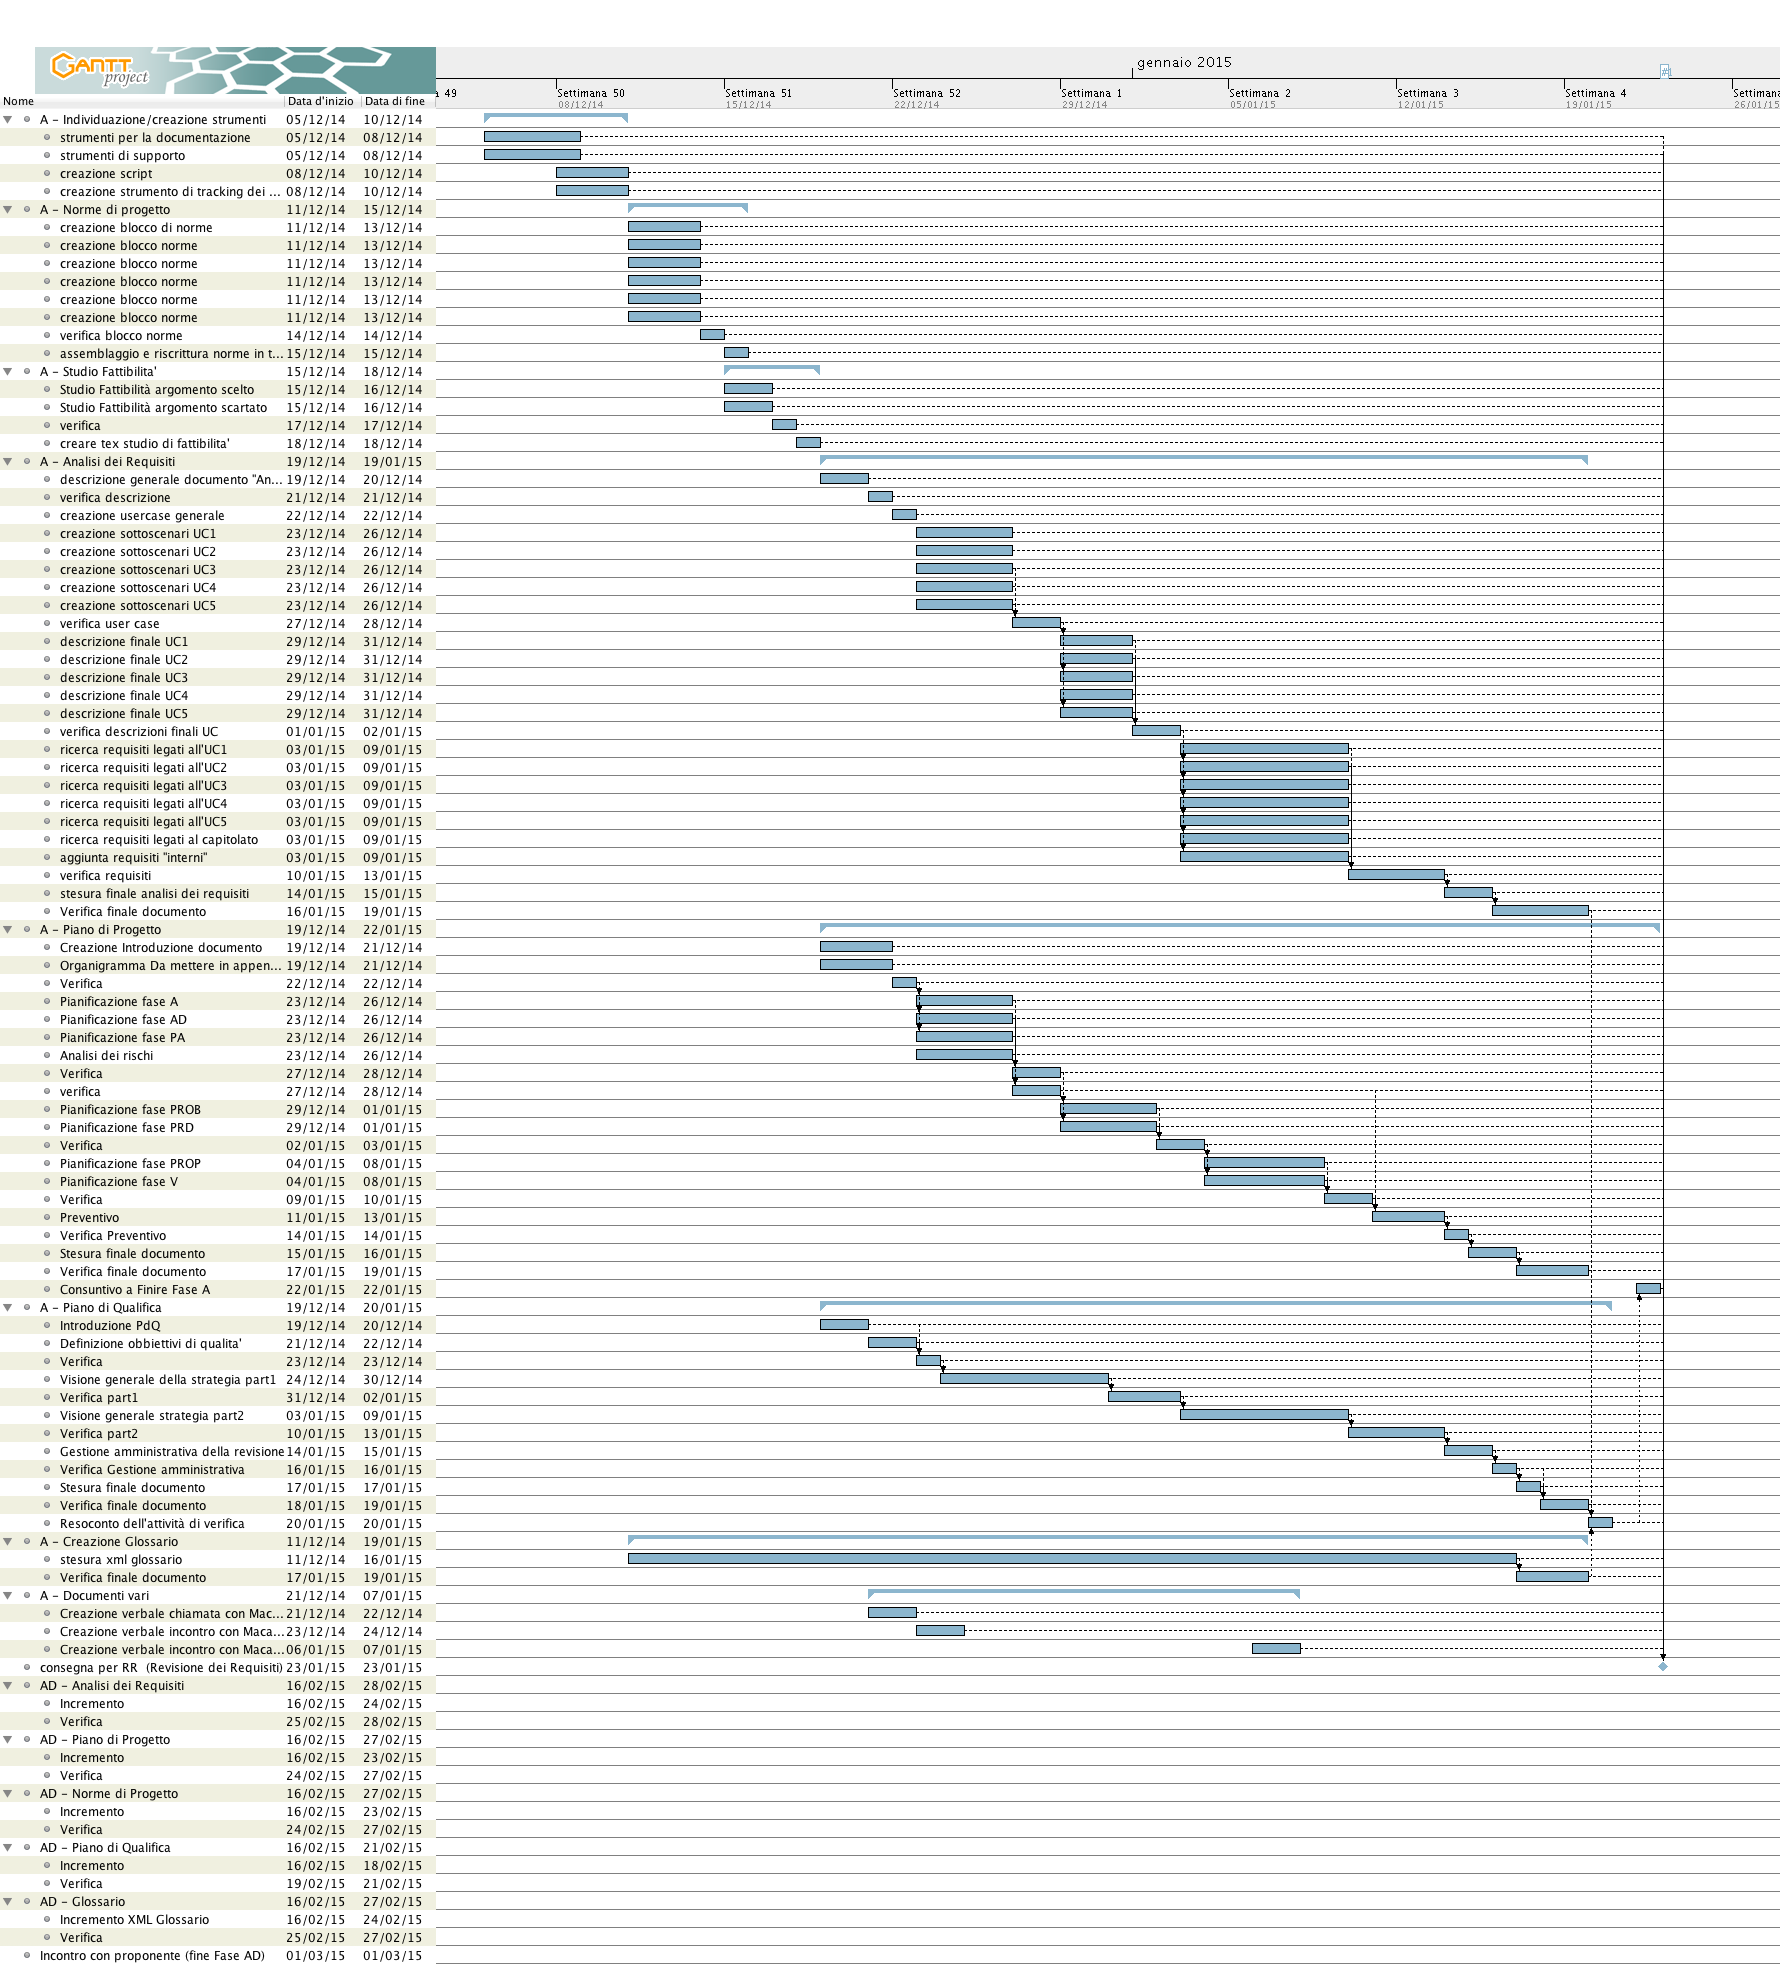
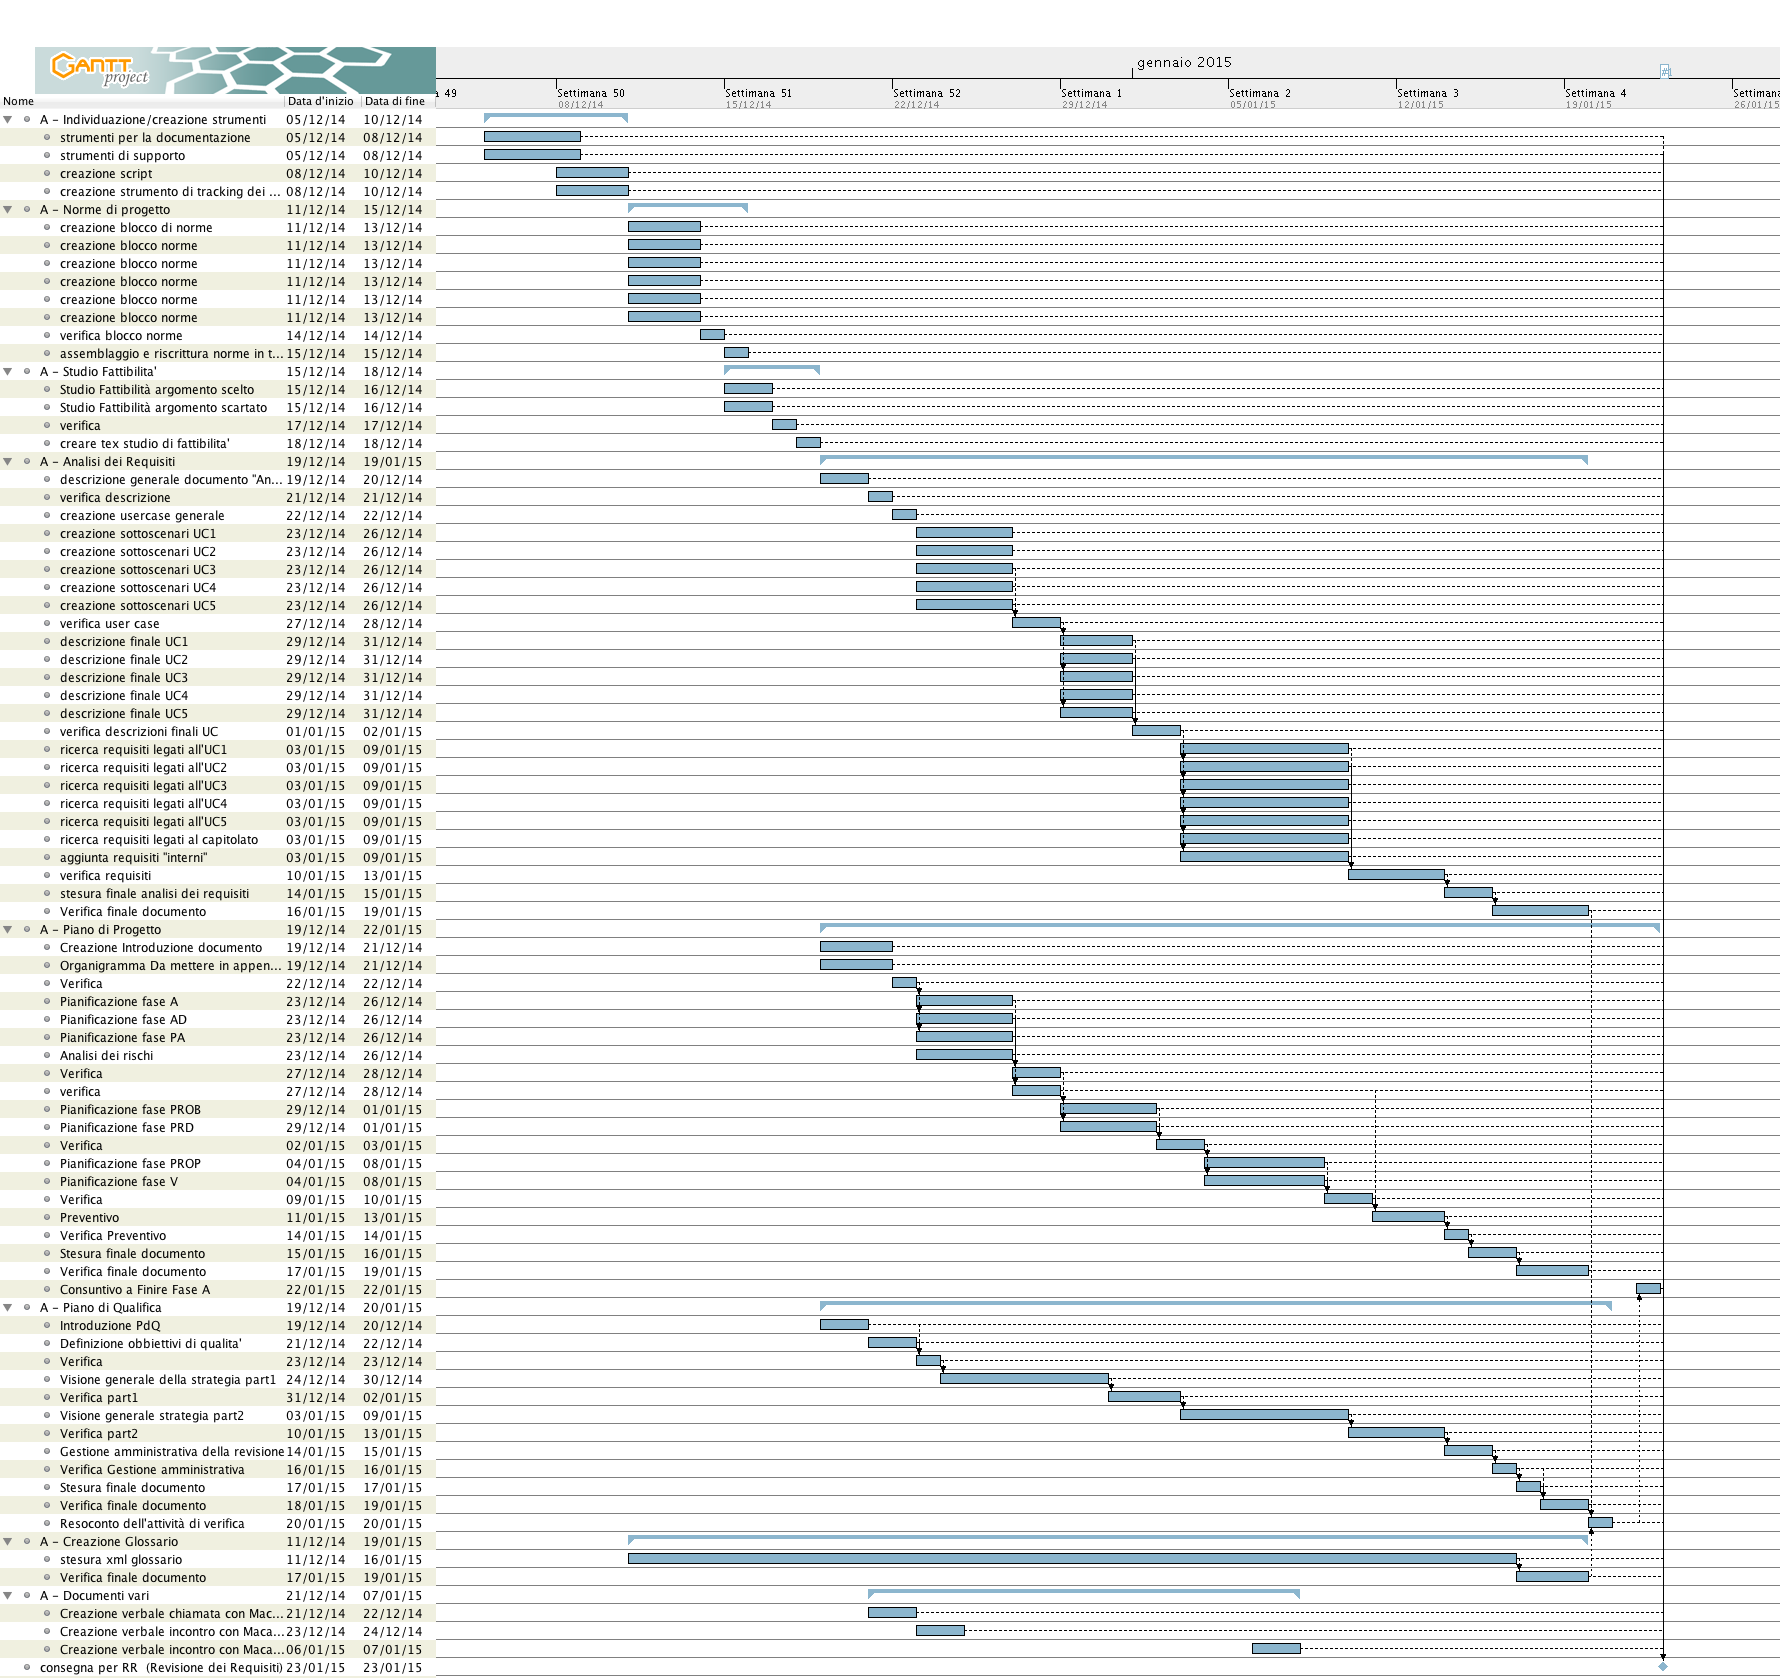
regolazione immagine fase a

diff --git a/Documents/PianoDiProgetto/Tex/FaseA.tex b/Documents/PianoDiProgetto/Tex/FaseA.tex
@@ -15,4 +15,4 @@
 			\end{itemize}
 	\end{description}
 	\subsubsection{Diagramma di Gantt delle attività}
-		%\includegraphics{PianoDiProgetto/Pics/FaseA.png}
+		\includegraphics[scale=0.29]{PianoDiProgetto/Pics/FaseA.png}
